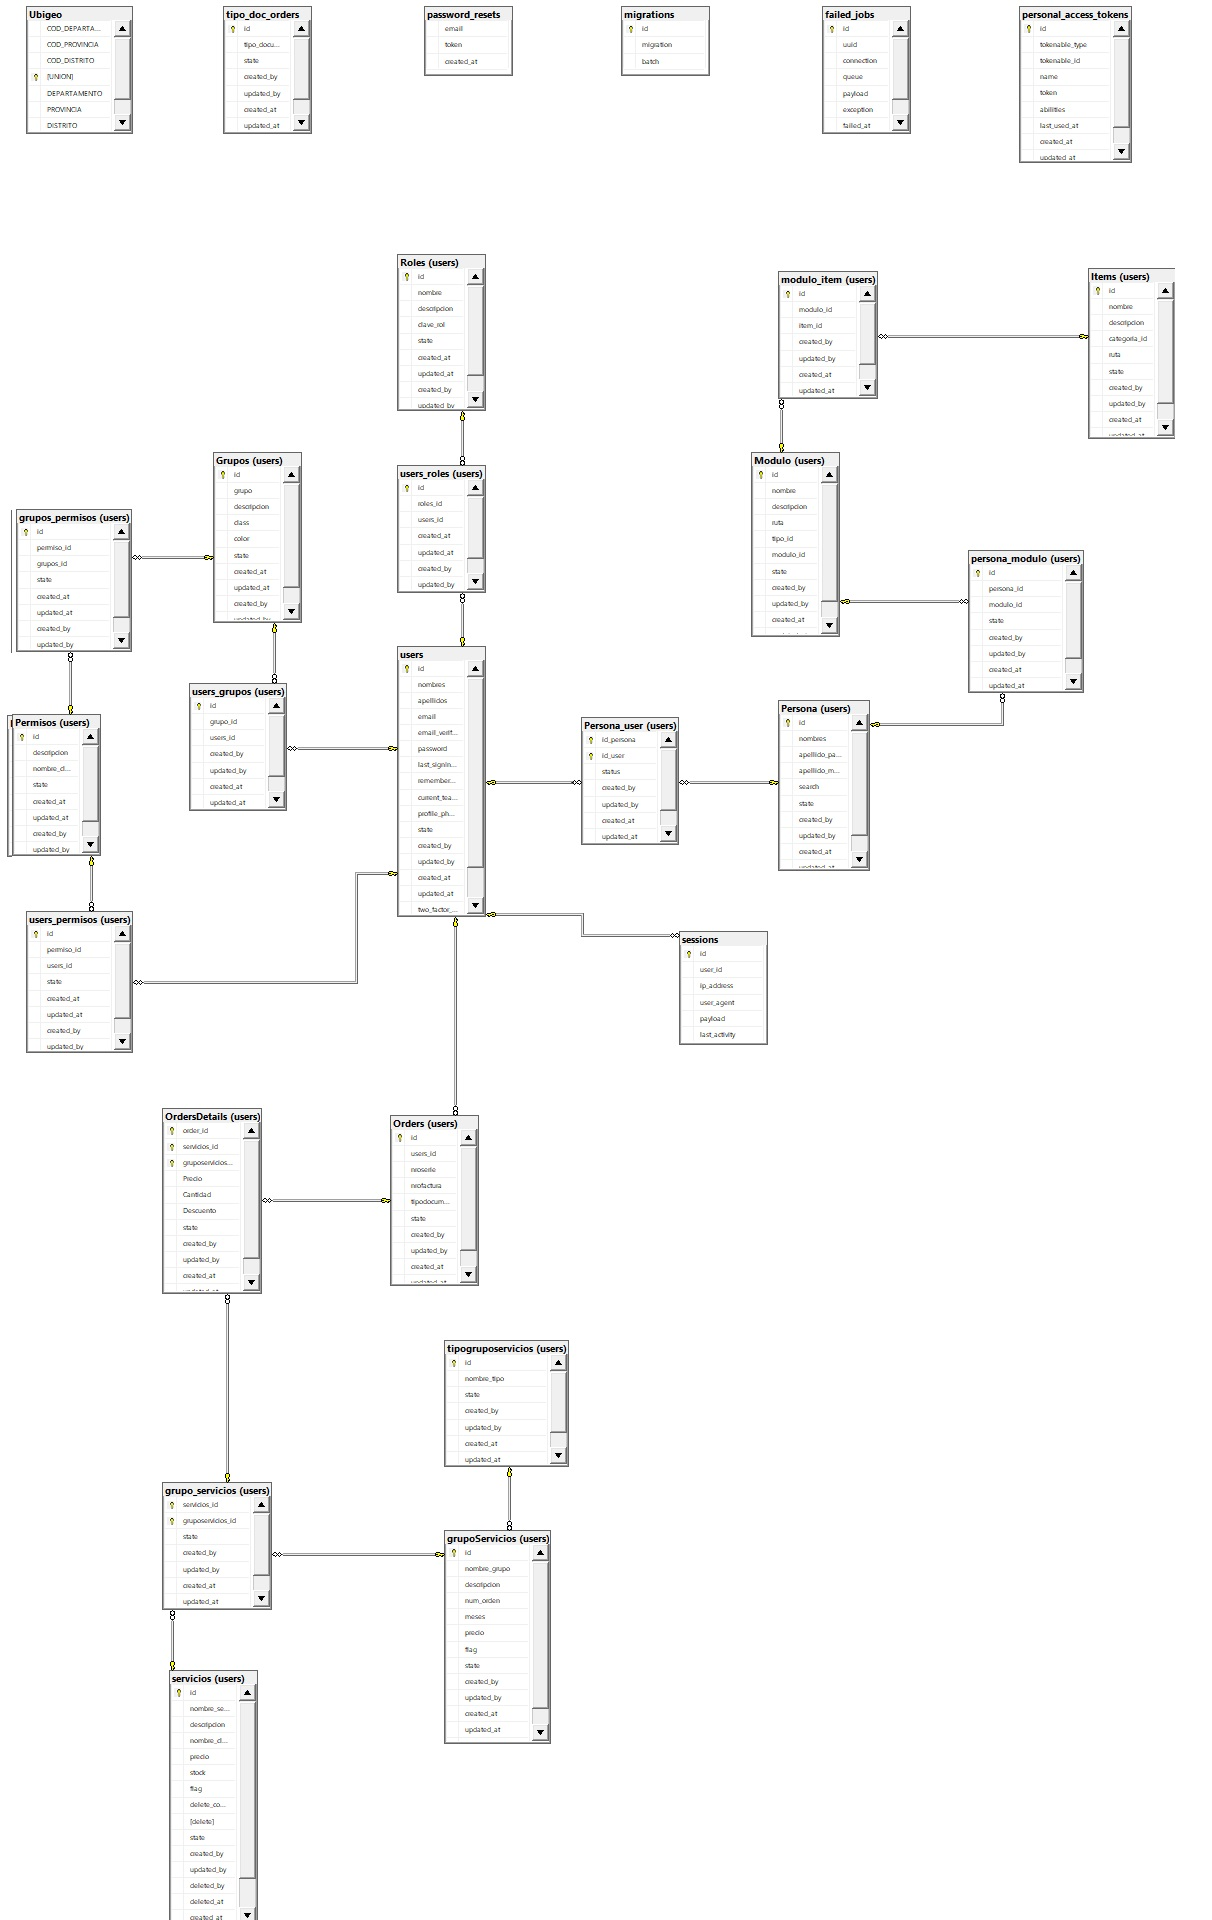
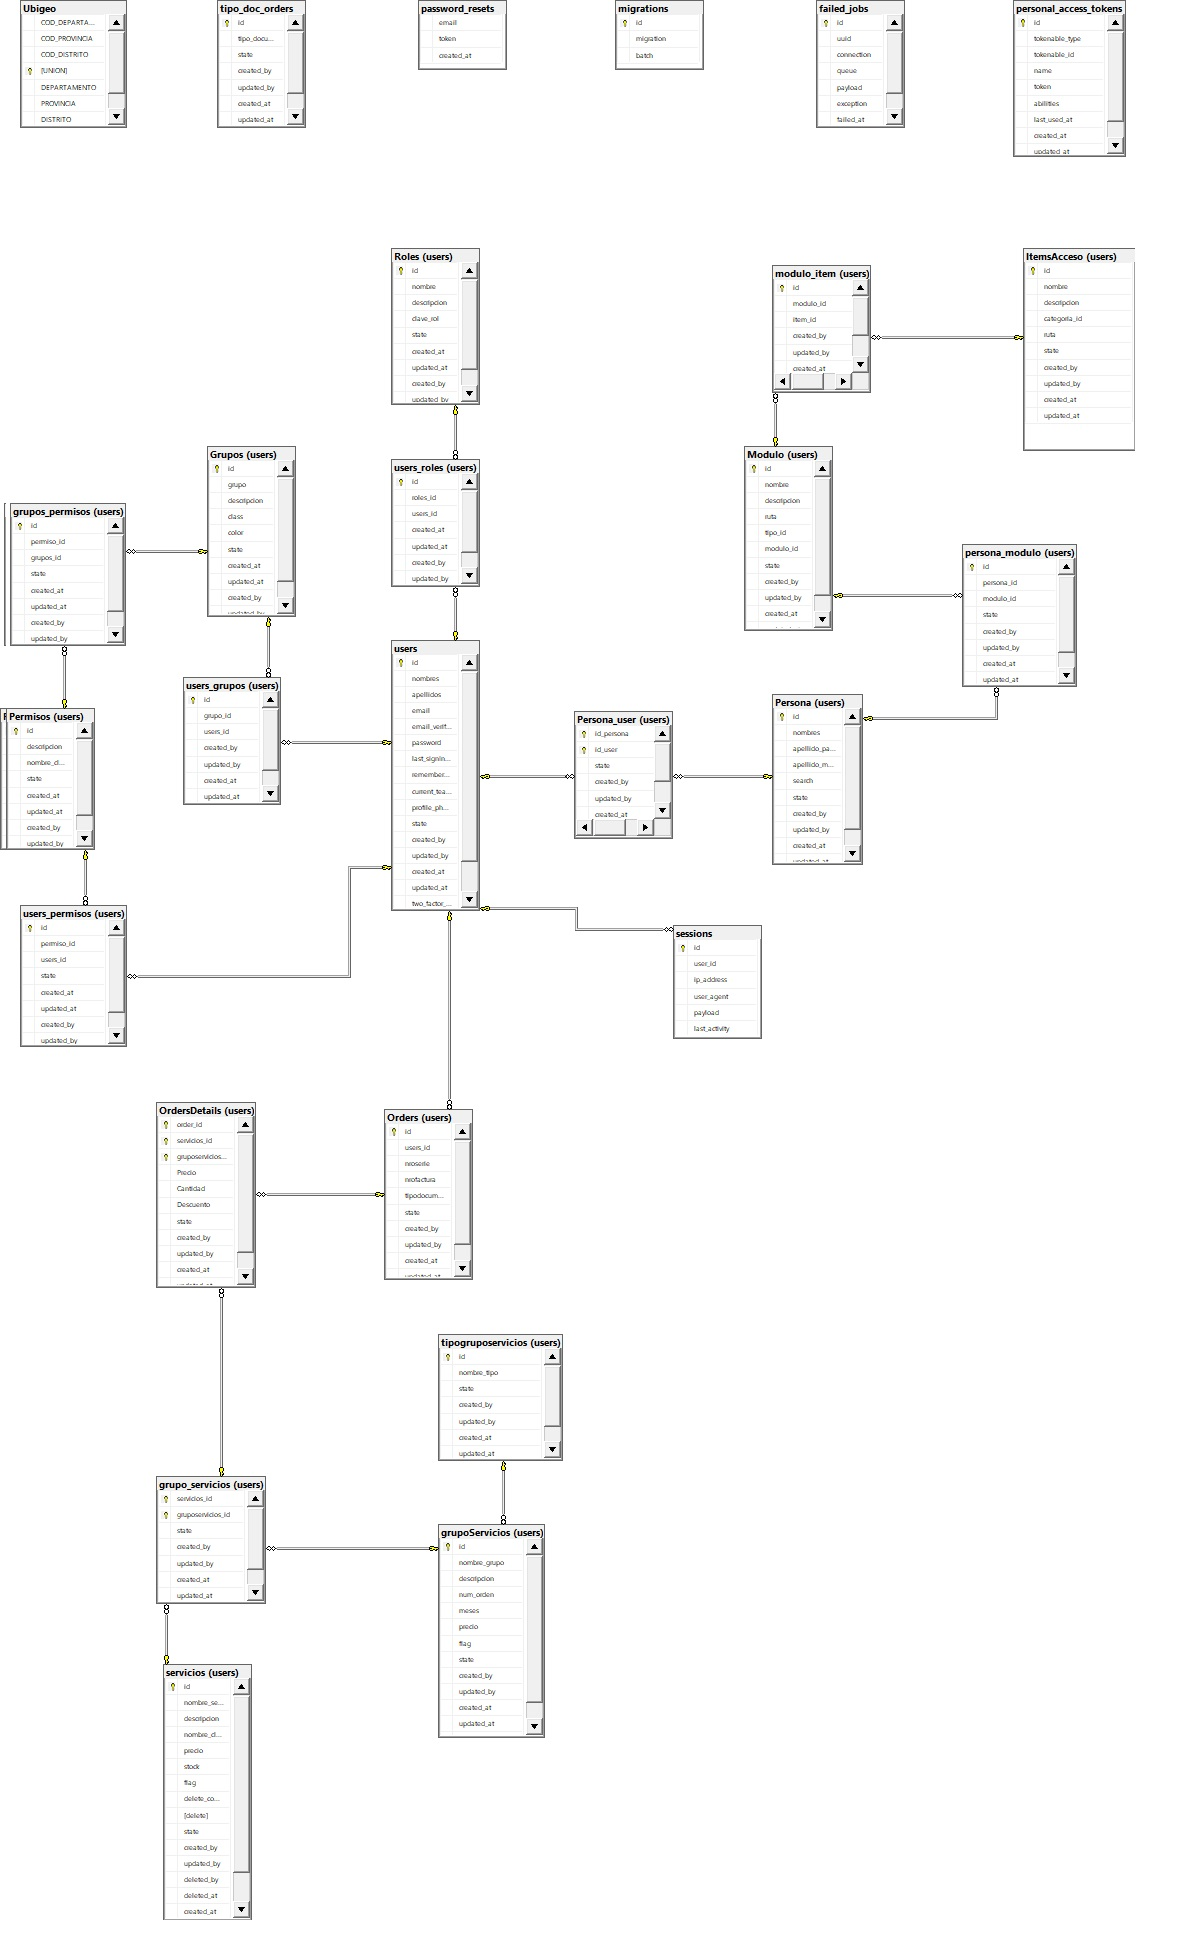
cambios

diff --git a/app/Models/Interno/Items.php b/app/Models/Interno/Items.php
@@ -9,7 +9,7 @@ use Illuminate\Database\Eloquent\Model;
 class Items extends Model
 {
 	use HasFactory;
-	protected $table = 'users.items';
+	protected $table = 'users.ItemsAcceso';
 
 	protected $primaryKey = 'id';
 
